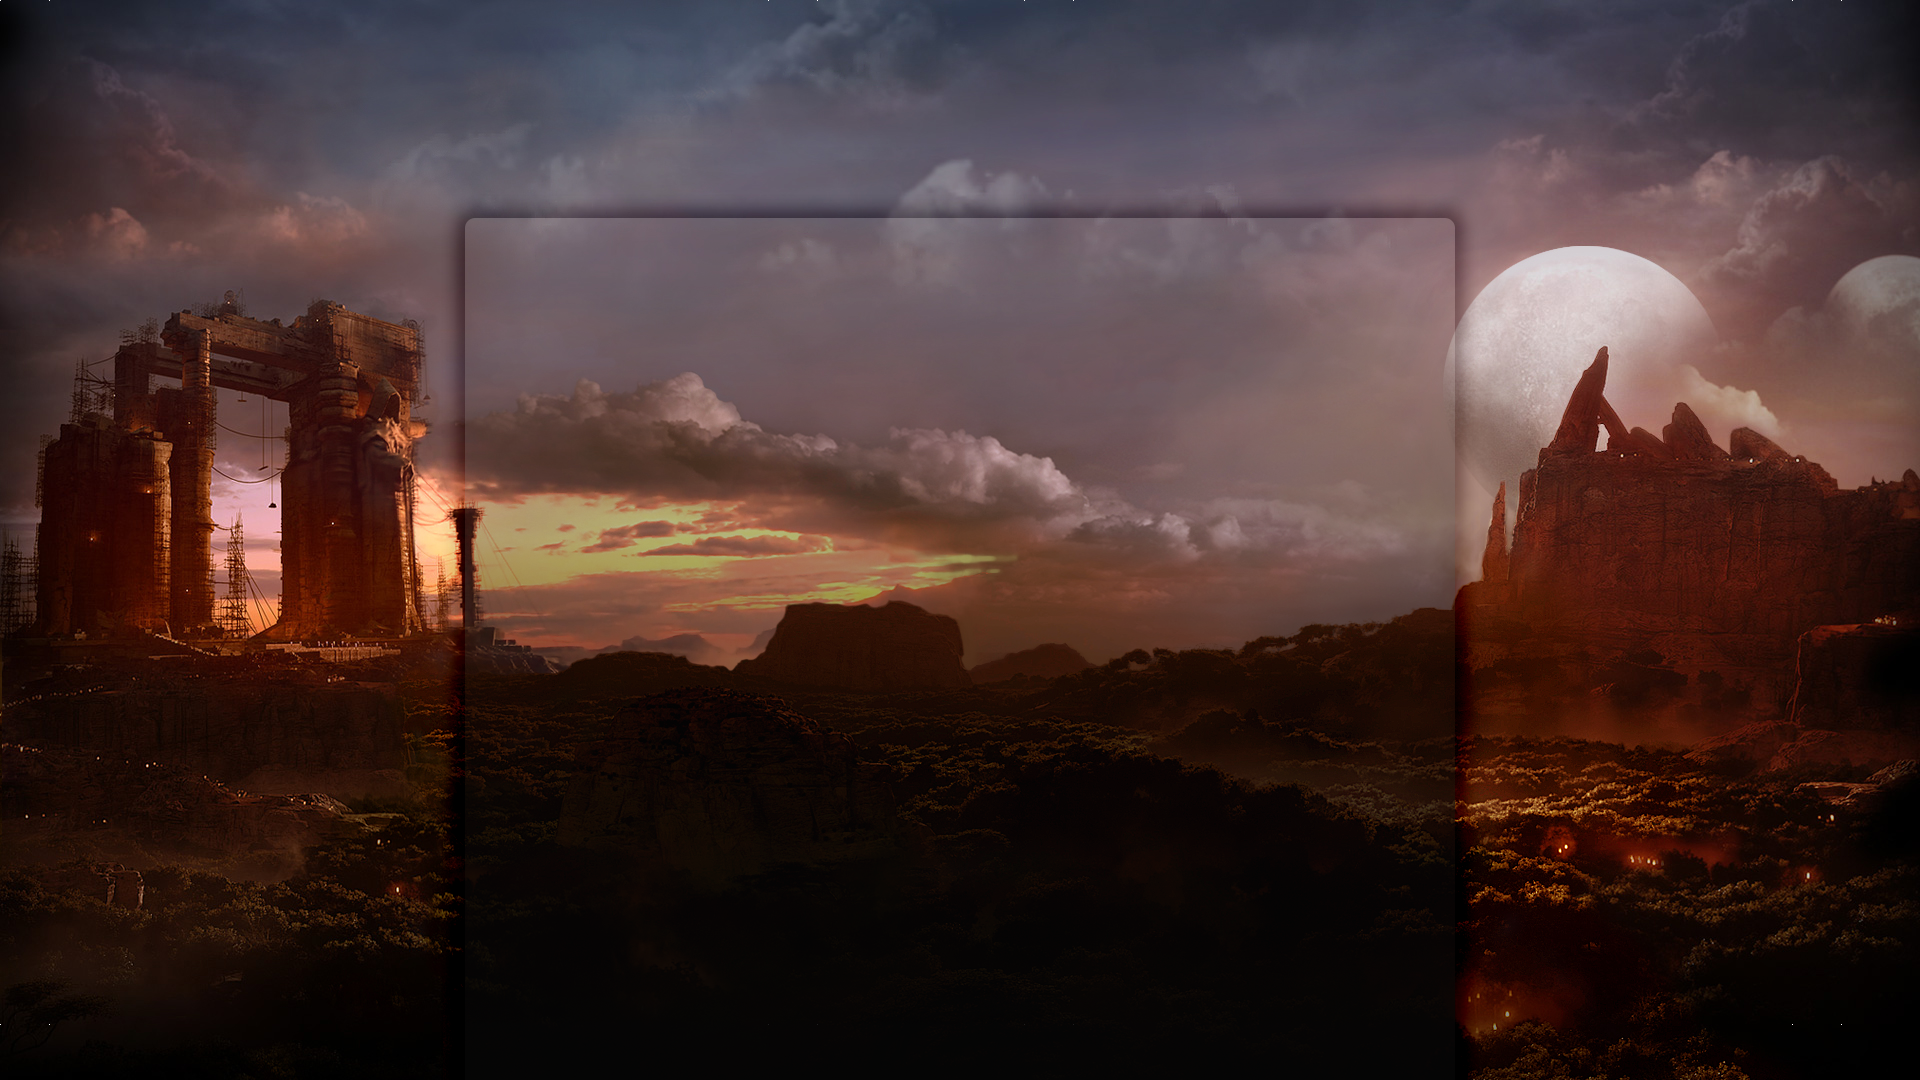
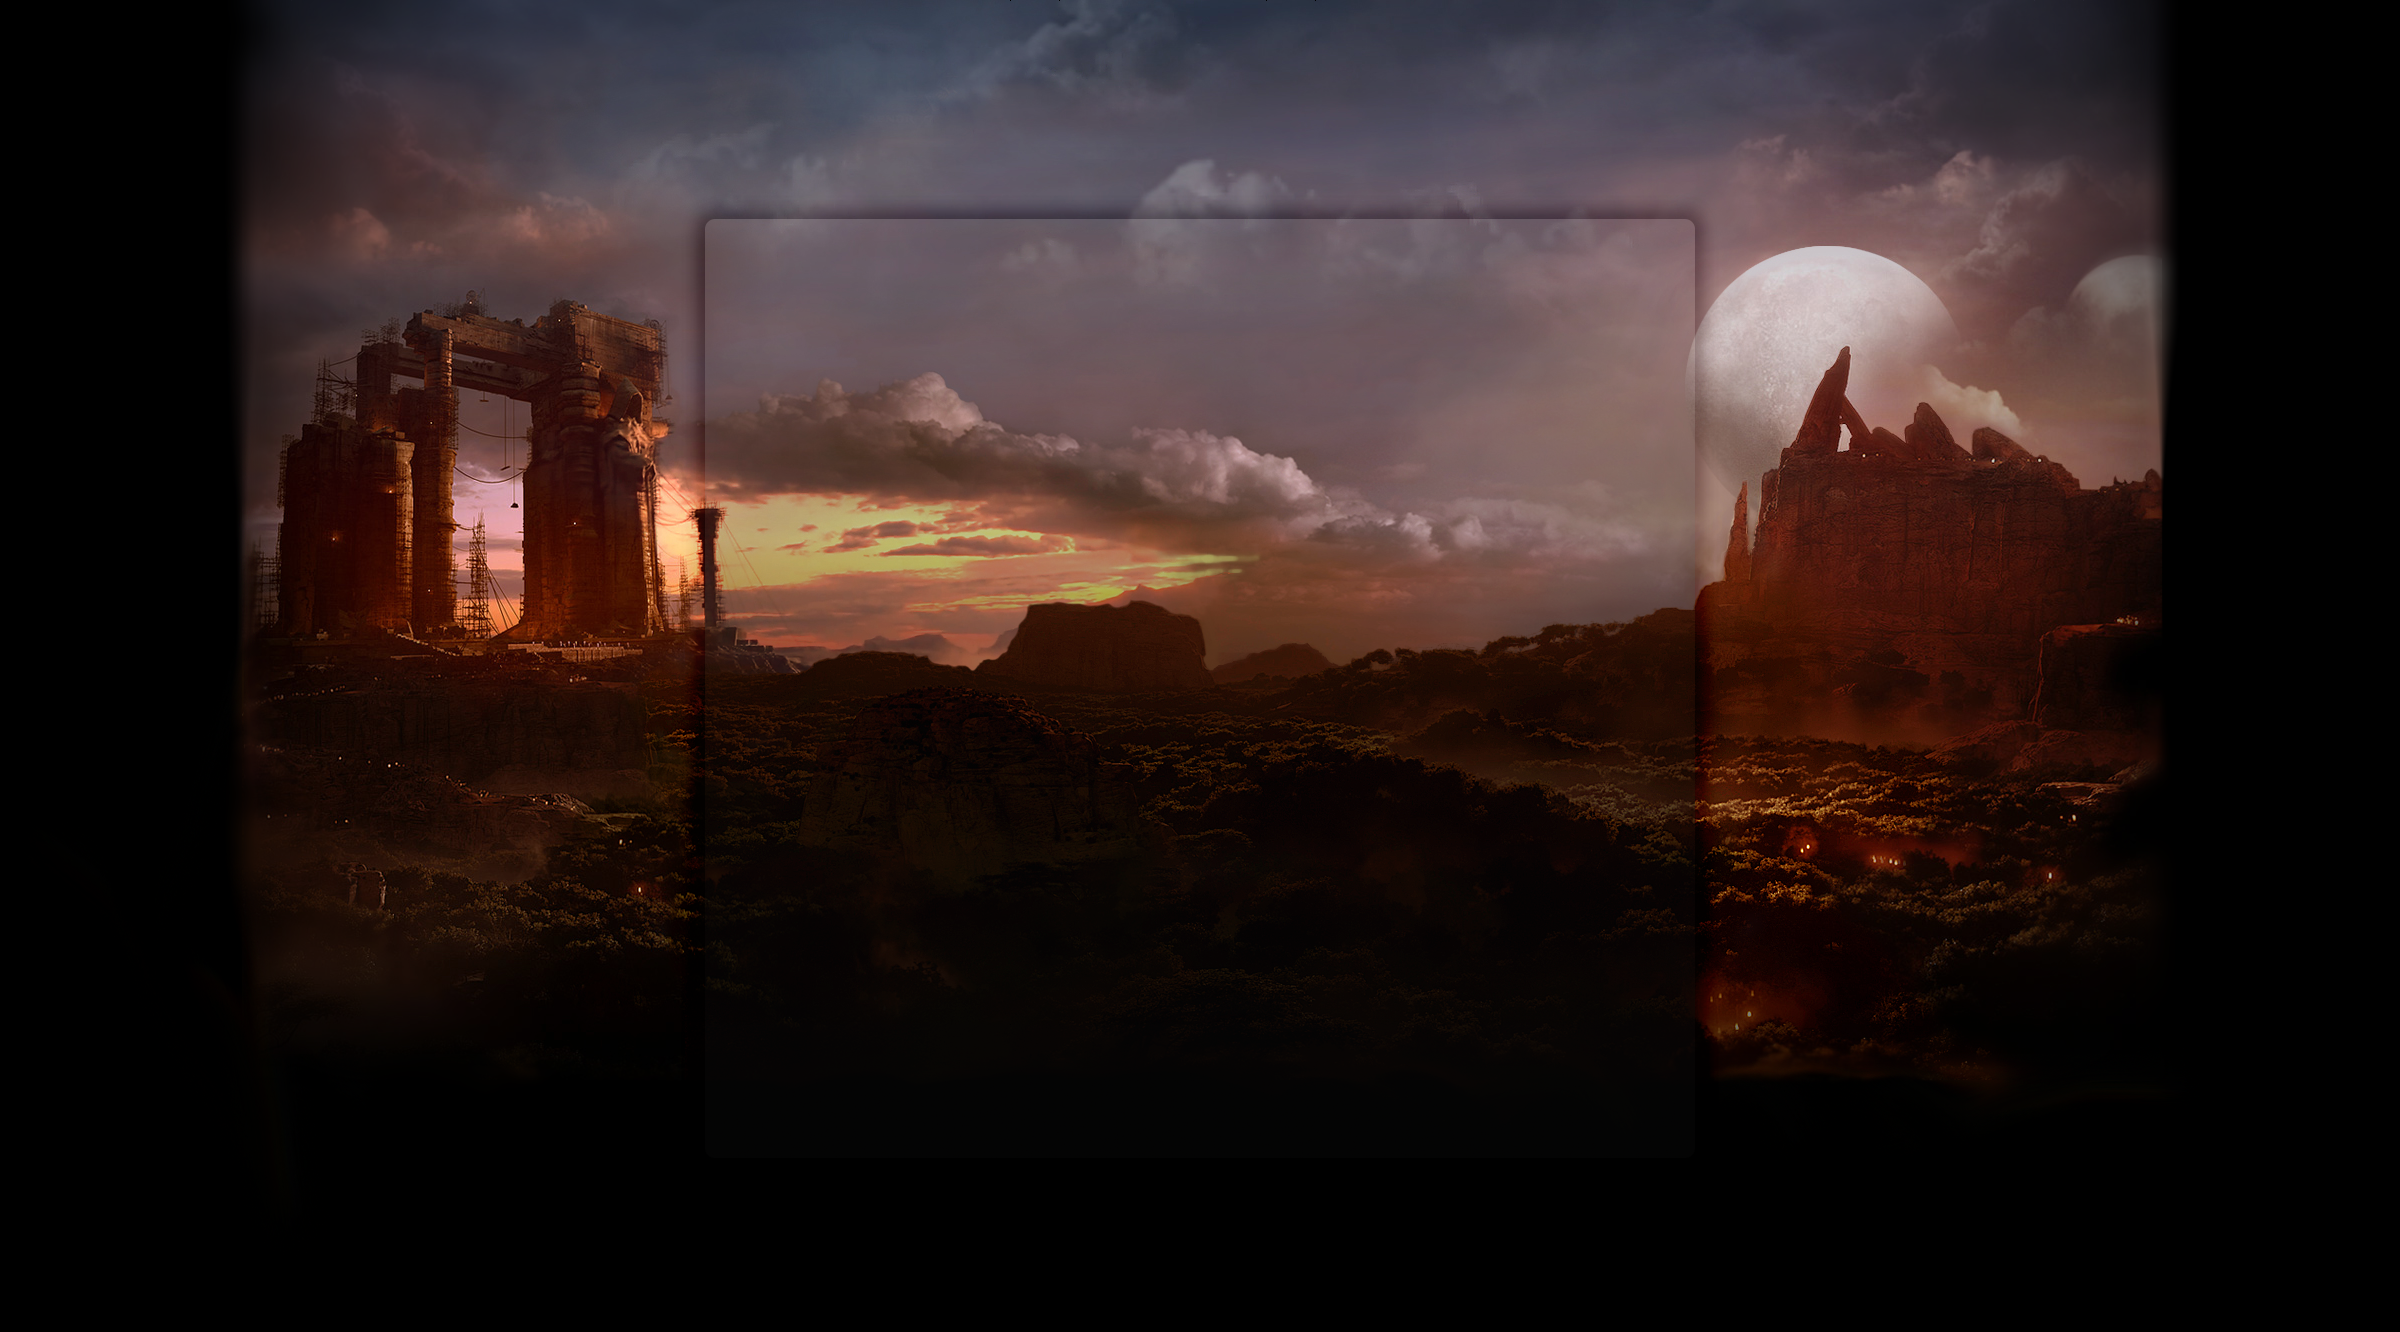
graphics update

diff --git a/styles/pbwow3/template/overall_header.html b/styles/pbwow3/template/overall_header.html
@@ -89,7 +89,8 @@
 			<div class="inner">
 
 			<div id="site-description" class="site-description">
-				<a id="logo" class="logo" href="{% if U_SITE_HOME %}{{ U_SITE_HOME }}{% else %}{{ U_INDEX }}{% endif %}" title="{% if U_SITE_HOME %}{{ lang('SITE_HOME') }}{% else %}{{ lang('INDEX') }}{% endif %}"><span class="site_logo"></span></a>
+				<a id="logo" class="logo" href="{% if U_SITE_HOME %}{{ U_SITE_HOME }}{% else %}{{ U_INDEX }}{% endif %}" title="{% if U_SITE_HOME %}{{ lang('SITE_HOME') }}{% else %}{{ lang('INDEX') }}{% endif %}">
+					<span class="site_logo"></span></a>
 				<h1>{{ SITENAME }}</h1>
 				<p>{{ SITE_DESCRIPTION }}</p>
 				<p class="skiplink"><a href="#start_here">{{ lang('SKIP') }}</a></p>

diff --git a/styles/pbwow3/theme/colours.css b/styles/pbwow3/theme/colours.css
@@ -24,7 +24,7 @@ h3 {
 }
 
 .pm .postbody h3.first {
-    color: #FFB019;
+    color: #f8b700;
     font-size: 1.6em;
 }
 
@@ -38,6 +38,7 @@ hr {
 Colours and backgrounds for links.css
 -------------------------------------------------------------- */
 a 			{ color: #FFB019; }
+a 			{ color: #f8b700; }
 a:hover 	{ color: #FFFFFF; }
 a:active	{ color: #00C0FF; }
 
@@ -58,6 +59,7 @@ h3 a:hover { text-decoration: none; }
 .postlink {
 
     border-bottom-color: #FFB019;
+    border-bottom-color: #f8b700;
 }
 
 .postlink:hover {

diff --git a/styles/pbwow3/theme/stylesheet.css b/styles/pbwow3/theme/stylesheet.css
@@ -51,11 +51,12 @@ body.pbwow3 #page-body {
 }
 
 @media only screen and (max-width: 999px), only screen and (max-device-width: 999px) {
+	/*
 	body.pbwow3 {
 		background-image: url("./images/theme/wod-small.png");
 		background-position: 0 0;
 	}
-
+	*/
 	body.pbwow3.topbar {
 		background-position: 0 41px;
 	}

diff --git a/styles/pbwow3/theme/common.css b/styles/pbwow3/theme/common.css
@@ -6,7 +6,7 @@ html {
 }
 
 body {
-    background: #000 url("./images/theme/wod.jpg") no-repeat 49.999% 0;
+    background: #000 url("./images/theme/wod.png") no-repeat 49.999% 0;
     padding: 0;
     overflow-y: scroll;
 }
